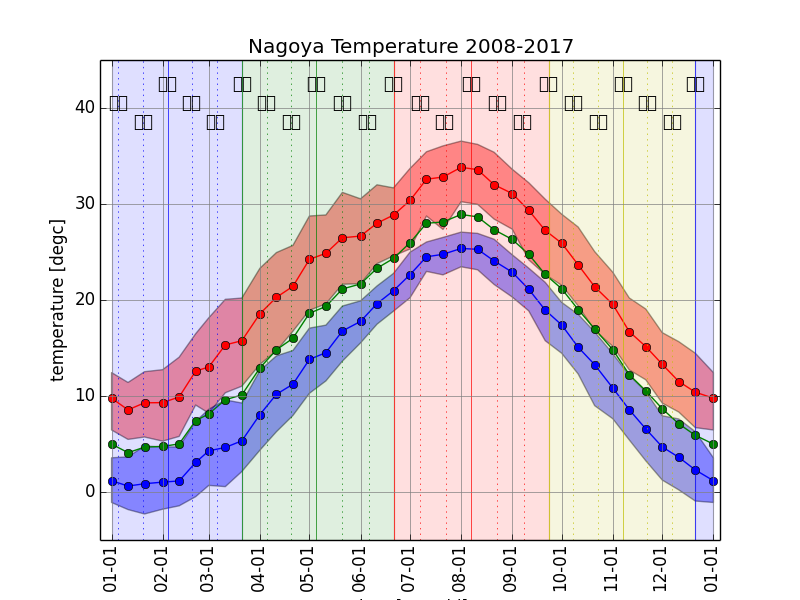
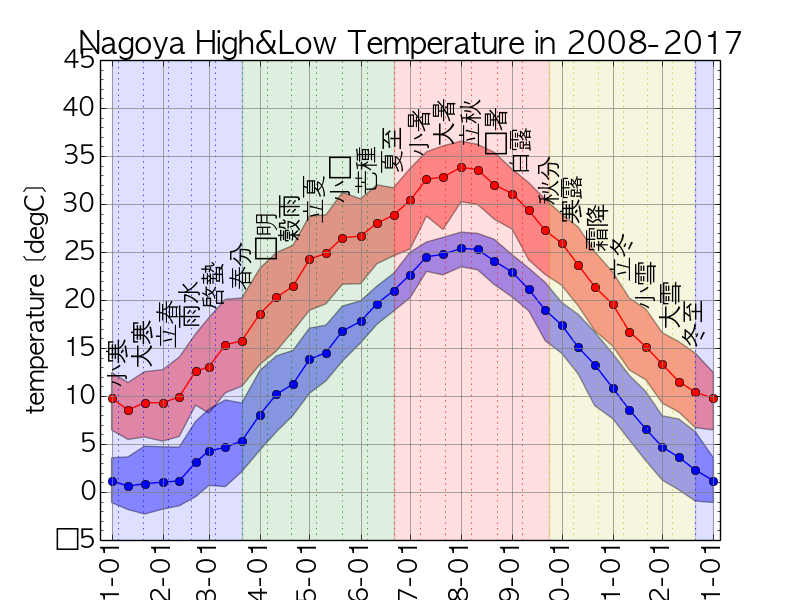
2018-01-22 mon

diff --git a/jma_temperature_graph.py b/jma_temperature_graph.py
@@ -8,6 +8,18 @@ import matplotlib.pyplot as plt
 import matplotlib
 from matplotlib.dates import MonthLocator
 
+#font = {"family":"SourceHanSans"}
+#matplotlib.rc('font', **font)
+#font_path = '/Users/kima/Library/Fonts/TanukiMagic.ttf'
+font_path = '/Users/kima/Library/Fonts/SourceHanSans-Regular.otf'
+font_prop = matplotlib.font_manager.FontProperties(fname=font_path)
+plt.rcParams['font.family'] = font_prop.get_name()
+plt.rcParams["font.size"] = 16
+
+#plt.rcParams["font.family"] = 'SourceHanSans'
+#plt.rcParams["font.family"] = 'AppleGothic'
+#plt.rcParams["font.family"] = 'TanukiMagic'
+
 #np.set_printoptions(precision=1)
 st_filename = "jma_temperature_data_nagoya_2008-2017_filtered.csv"
 
@@ -67,106 +79,88 @@ print len(ary2d_avg_temperature)
 
 x_axis_data_uniq = list(set(x_axis_data))
 
-max_temperature_upper_err = ary2d_avg_temperature[:,4] - ary2d_avg_temperature[:,8]
-max_temperature_lower_err = ary2d_avg_temperature[:,8] - ary2d_avg_temperature[:,6]
+max_temperature_upper_err = ary2d_avg_temperature[:, 4] - ary2d_avg_temperature[:, 8]
+max_temperature_lower_err = ary2d_avg_temperature[:, 8] - ary2d_avg_temperature[:, 6]
 
-min_temperature_upper_err = ary2d_avg_temperature[:,5] - ary2d_avg_temperature[:,9]
-min_temperature_lower_err = ary2d_avg_temperature[:,9] - ary2d_avg_temperature[:,7]
+min_temperature_upper_err = ary2d_avg_temperature[:, 5] - ary2d_avg_temperature[:, 9]
+min_temperature_lower_err = ary2d_avg_temperature[:, 9] - ary2d_avg_temperature[:, 7]
 
-for (month,day) in zip(ary2d_avg_temperature[:,1],ary2d_avg_temperature[:,2]):
+for (month,day) in zip(ary2d_avg_temperature[:, 1],ary2d_avg_temperature[:, 2]):
 	x_date.append(datetime.datetime(2018, month, day))
 x_date.pop()
-x_date.append(datetime.datetime(2019,1,1))
+x_date.append(datetime.datetime(2019, 1, 1))
 
 print x_date, len(x_date)
-print ary2d_avg_temperature[:,3], len(ary2d_avg_temperature[:,3])
+print ary2d_avg_temperature[:, 3], len(ary2d_avg_temperature[:, 3])
 
-for (a,b) in zip(x_date, ary2d_avg_temperature[:,3]):
+for (a, b) in zip(x_date, ary2d_avg_temperature[:, 3]):
 	print a,b
 
 fig = plt.figure()
 ax = fig.add_subplot(111)
 dateFmt = matplotlib.dates.DateFormatter('%m-%d')
 ax.xaxis.set_major_formatter(dateFmt)
-
-plt.title("Nagoya Temperature 2008-2017")
+#plt.tight_layout()
+plt.title("Nagoya High&Low Temperature in 2008-2017")
 plt.xlabel("date [mm-dd]")
-plt.ylabel("temperature [degc]")
+plt.ylabel("temperature [degC]")
 
-plt.ylim(-5,45)
-plt.xlim(datetime.datetime(2017,12,25),datetime.datetime(2019,1,5))
-ax.plot(x_date, ary2d_avg_temperature[:,3],'o-', color='g')
+plt.ylim(-5, 45)
+plt.xlim(datetime.datetime(2017, 12, 25), datetime.datetime(2019, 1, 5))
+#ax.plot(x_date, ary2d_avg_temperature[:,3],'o-', color='g')
 #ax.plot(x_date, ary2d_avg_temperature[:,4],'o-')
 #ax.plot(x_date, ary2d_avg_temperature[:,5],'o-')
 #ax.plot(x_date, ary2d_avg_temperature[:,6],'o-')
 #ax.plot(x_date, ary2d_avg_temperature[:,7],'o-')
-ax.plot(x_date, ary2d_avg_temperature[:,8],'o-', color='r')
-ax.plot(x_date, ary2d_avg_temperature[:,9],'o-', color='b')
+ax.plot(x_date, ary2d_avg_temperature[:, 8], 'o-', color='r')
+ax.plot(x_date, ary2d_avg_temperature[:, 9], 'o-', color='b')
 #ax.errorbar(x_date,ary2d_avg_temperature[:,8], yerr=[max_temperature_lower_err,max_temperature_lower_err], fmt='o-')
 #ax.errorbar(x_date,ary2d_avg_temperature[:,9], yerr=[min_temperature_lower_err,min_temperature_lower_err], fmt='o-')
 
-ax.fill_between(x_date, ary2d_avg_temperature[:,4],ary2d_avg_temperature[:,6],facecolor='r', alpha=0.4)
-ax.fill_between(x_date, ary2d_avg_temperature[:,5],ary2d_avg_temperature[:,7],facecolor='b', alpha=0.4)
+ax.fill_between(x_date, ary2d_avg_temperature[:, 4], ary2d_avg_temperature[:, 6], facecolor='r', alpha=0.4)
+ax.fill_between(x_date, ary2d_avg_temperature[:, 5], ary2d_avg_temperature[:, 7], facecolor='b', alpha=0.4)
 
 months = MonthLocator(range(1,13), bymonthday=1,interval=1)
 ax.xaxis.set_major_locator(months)
 ax.grid(which='major', color='grey', linestyle='-')
+ax.yaxis.set_major_locator(matplotlib.ticker.MultipleLocator(5))
+ax.yaxis.set_minor_locator(matplotlib.ticker.MultipleLocator(1))
 
-ax.axvline(datetime.datetime(2018, 3,21), color='g', linestyle='-', linewidth=0.5)
-ax.axvline(datetime.datetime(2018, 4, 5), color='g', linestyle=':', linewidth=0.5)
-ax.axvline(datetime.datetime(2018, 4,20), color='g', linestyle=':', linewidth=0.5)
-ax.axvline(datetime.datetime(2018, 5, 5), color='g', linestyle='-', linewidth=0.5)
-ax.axvline(datetime.datetime(2018, 5,21), color='g', linestyle=':', linewidth=0.5)
-ax.axvline(datetime.datetime(2018, 6, 6), color='g', linestyle=':', linewidth=0.5)
-ax.axvline(datetime.datetime(2018, 6,21), color='r', linestyle='-', linewidth=0.5)
-ax.axvline(datetime.datetime(2018, 7, 7), color='r', linestyle=':', linewidth=0.5)
-ax.axvline(datetime.datetime(2018, 7,23), color='r', linestyle=':', linewidth=0.5)
-ax.axvline(datetime.datetime(2018, 8, 7), color='r', linestyle='-', linewidth=0.5)
-ax.axvline(datetime.datetime(2018, 8,23), color='r', linestyle=':', linewidth=0.5)
-ax.axvline(datetime.datetime(2018, 9, 8), color='r', linestyle=':', linewidth=0.5)
-ax.axvline(datetime.datetime(2018, 9,23), color='y', linestyle='-', linewidth=0.5)
-ax.axvline(datetime.datetime(2018,10, 8), color='y', linestyle=':', linewidth=0.5)
-ax.axvline(datetime.datetime(2018,10,23), color='y', linestyle=':', linewidth=0.5)
-ax.axvline(datetime.datetime(2018,11, 7), color='y', linestyle='-', linewidth=0.5)
-ax.axvline(datetime.datetime(2018,11,22), color='y', linestyle=':', linewidth=0.5)
-ax.axvline(datetime.datetime(2018,12, 7), color='y', linestyle=':', linewidth=0.5)
-ax.axvline(datetime.datetime(2018,12,21), color='b', linestyle='-', linewidth=0.5)
-ax.axvline(datetime.datetime(2018, 1, 5), color='b', linestyle=':', linewidth=0.5)
-ax.axvline(datetime.datetime(2018, 1,20), color='b', linestyle=':', linewidth=0.5)
-ax.axvline(datetime.datetime(2018, 2, 4), color='b', linestyle='-', linewidth=0.5)
-ax.axvline(datetime.datetime(2018, 2,19), color='b', linestyle=':', linewidth=0.5)
-ax.axvline(datetime.datetime(2018, 3, 6), color='b', linestyle=':', linewidth=0.5)
+ax.axvspan(datetime.datetime(2018, 1, 1), datetime.datetime(2018, 3,21), color='b', alpha=0.125)
+ax.axvspan(datetime.datetime(2018, 3,21), datetime.datetime(2018, 6,21), color='g', alpha=0.125)
+ax.axvspan(datetime.datetime(2018, 6,21), datetime.datetime(2018, 9,23), color='r', alpha=0.125)
+ax.axvspan(datetime.datetime(2018, 9,23), datetime.datetime(2018,12,21), color='y', alpha=0.125)
+ax.axvspan(datetime.datetime(2018,12,21), datetime.datetime(2019, 1, 1), color='b', alpha=0.125)
 
-ax.axvspan(datetime.datetime(2018, 1, 1),datetime.datetime(2018, 3,21), color='b', alpha=0.125)
-ax.axvspan(datetime.datetime(2018, 3,21),datetime.datetime(2018, 6,21), color='g', alpha=0.125)
-ax.axvspan(datetime.datetime(2018, 6,21),datetime.datetime(2018, 9,23), color='r', alpha=0.125)
-ax.axvspan(datetime.datetime(2018, 9,23),datetime.datetime(2018,12,21), color='y', alpha=0.125)
-ax.axvspan(datetime.datetime(2018,12,21),datetime.datetime(2019, 1, 1), color='b', alpha=0.125)
+li_24seasons = []
+li_24seasons.append([2018, 1, 5, u'小寒', 'b', 14])
+li_24seasons.append([2018, 1,20, u'大寒', 'b', 16])
+li_24seasons.append([2018, 2, 4, u'立春', 'b', 18])
+li_24seasons.append([2018, 2,18, u'雨水', 'b', 20])
+li_24seasons.append([2018, 3, 5, u'啓蟄', 'b', 22])
+li_24seasons.append([2018, 3,21, u'春分', 'g', 24])
+li_24seasons.append([2018, 4, 5, u'清明', 'g', 27])
+li_24seasons.append([2018, 4,20, u'穀雨', 'g', 29])
+li_24seasons.append([2018, 5, 5, u'立夏', 'g', 31])
+li_24seasons.append([2018, 5,21, u'小満', 'g', 33])
+li_24seasons.append([2018, 6, 5, u'芒種', 'g', 34])
+li_24seasons.append([2018, 6,21, u'夏至', 'r', 36])
+li_24seasons.append([2018, 7, 7, u'小暑', 'r', 38])
+li_24seasons.append([2018, 7,22, u'大暑', 'r', 39])
+li_24seasons.append([2018, 8, 7, u'立秋', 'r', 39])
+li_24seasons.append([2018, 8,23, u'処暑', 'r', 38])
+li_24seasons.append([2018, 9, 7, u'白露', 'r', 36])
+li_24seasons.append([2018, 9,23, u'秋分', 'y', 33])
+li_24seasons.append([2018,10, 8, u'寒露', 'y', 31])
+li_24seasons.append([2018,10,23, u'霜降', 'y', 28])
+li_24seasons.append([2018,11, 7, u'立冬', 'y', 25])
+li_24seasons.append([2018,11,22, u'小雪', 'y', 22])
+li_24seasons.append([2018,12, 7, u'大雪', 'y', 20])
+li_24seasons.append([2018,12,21, u'冬至', 'b', 18])
 
-ax.text(datetime.datetime(2018, 3,21), 42, u'春分',horizontalalignment='center')
-ax.text(datetime.datetime(2018, 4, 5), 40, u'清明',horizontalalignment='center')
-ax.text(datetime.datetime(2018, 4,20), 38, u'穀雨',horizontalalignment='center')
-ax.text(datetime.datetime(2018, 5, 5), 42, u'立夏',horizontalalignment='center')
-ax.text(datetime.datetime(2018, 5,21), 40, u'小満',horizontalalignment='center')
-ax.text(datetime.datetime(2018, 6, 5), 38, u'芒種',horizontalalignment='center')
-ax.text(datetime.datetime(2018, 6,21), 42, u'夏至',horizontalalignment='center')
-ax.text(datetime.datetime(2018, 7, 7), 40, u'小暑',horizontalalignment='center')
-ax.text(datetime.datetime(2018, 7,22), 38, u'大暑',horizontalalignment='center')
-ax.text(datetime.datetime(2018, 8, 7), 42, u'立秋',horizontalalignment='center')
-ax.text(datetime.datetime(2018, 8,23), 40, u'処暑',horizontalalignment='center')
-ax.text(datetime.datetime(2018, 9, 7), 38, u'白露',horizontalalignment='center')
-ax.text(datetime.datetime(2018, 9,23), 42, u'秋分',horizontalalignment='center')
-ax.text(datetime.datetime(2018,10, 8), 40, u'秋分',horizontalalignment='center')
-ax.text(datetime.datetime(2018,10,23), 38, u'秋分',horizontalalignment='center')
-ax.text(datetime.datetime(2018,11, 7), 42, u'立冬',horizontalalignment='center')
-ax.text(datetime.datetime(2018,11,22), 40, u'小雪',horizontalalignment='center')
-ax.text(datetime.datetime(2018,12, 7), 38, u'大雪',horizontalalignment='center')
-ax.text(datetime.datetime(2018,12,21), 42, u'冬至',horizontalalignment='center')
-ax.text(datetime.datetime(2018, 1, 5), 40, u'小寒',horizontalalignment='center')
-ax.text(datetime.datetime(2018, 1,20), 38, u'大寒',horizontalalignment='center')
-ax.text(datetime.datetime(2018, 2, 4), 42, u'立春',horizontalalignment='center')
-ax.text(datetime.datetime(2018, 2,18), 40, u'雨水',horizontalalignment='center')
-ax.text(datetime.datetime(2018, 3, 5), 38, u'啓蟄',horizontalalignment='center')
+for (x_date_data,li_24season) in zip(x_date,li_24seasons):
+	ax.text(datetime.datetime(li_24season[0],li_24season[1], li_24season[2]), li_24season[5], li_24season[3], horizontalalignment='center', rotation=90)
+	ax.axvline(datetime.datetime(li_24season[0],li_24season[1],li_24season[2]), color=li_24season[4], linestyle=':', linewidth=0.5)
 
 loc, label = plt.xticks()
 plt.setp(label, rotation=90)
